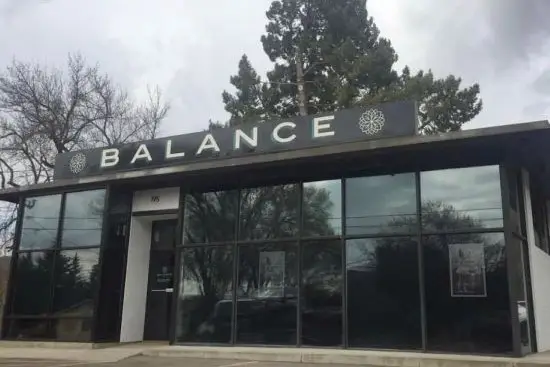
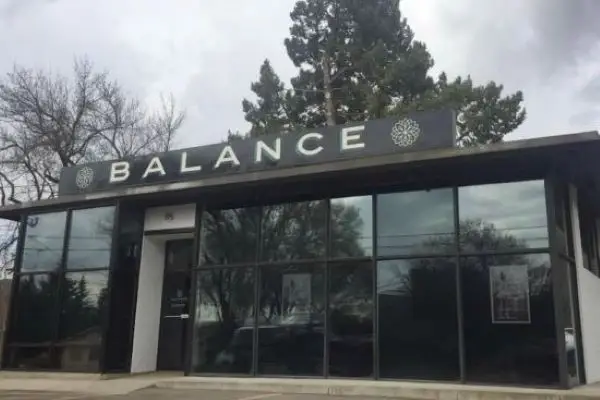
fix business image

diff --git a/chamber/styles/larger.css b/chamber/styles/larger.css
@@ -186,7 +186,7 @@
     .business-img {
         position: relative;
         width: 100%;
-        max-width: 550px;
+        max-width: 600px;
         margin-top: 0;
         border-radius: 5%;
         display: block;
